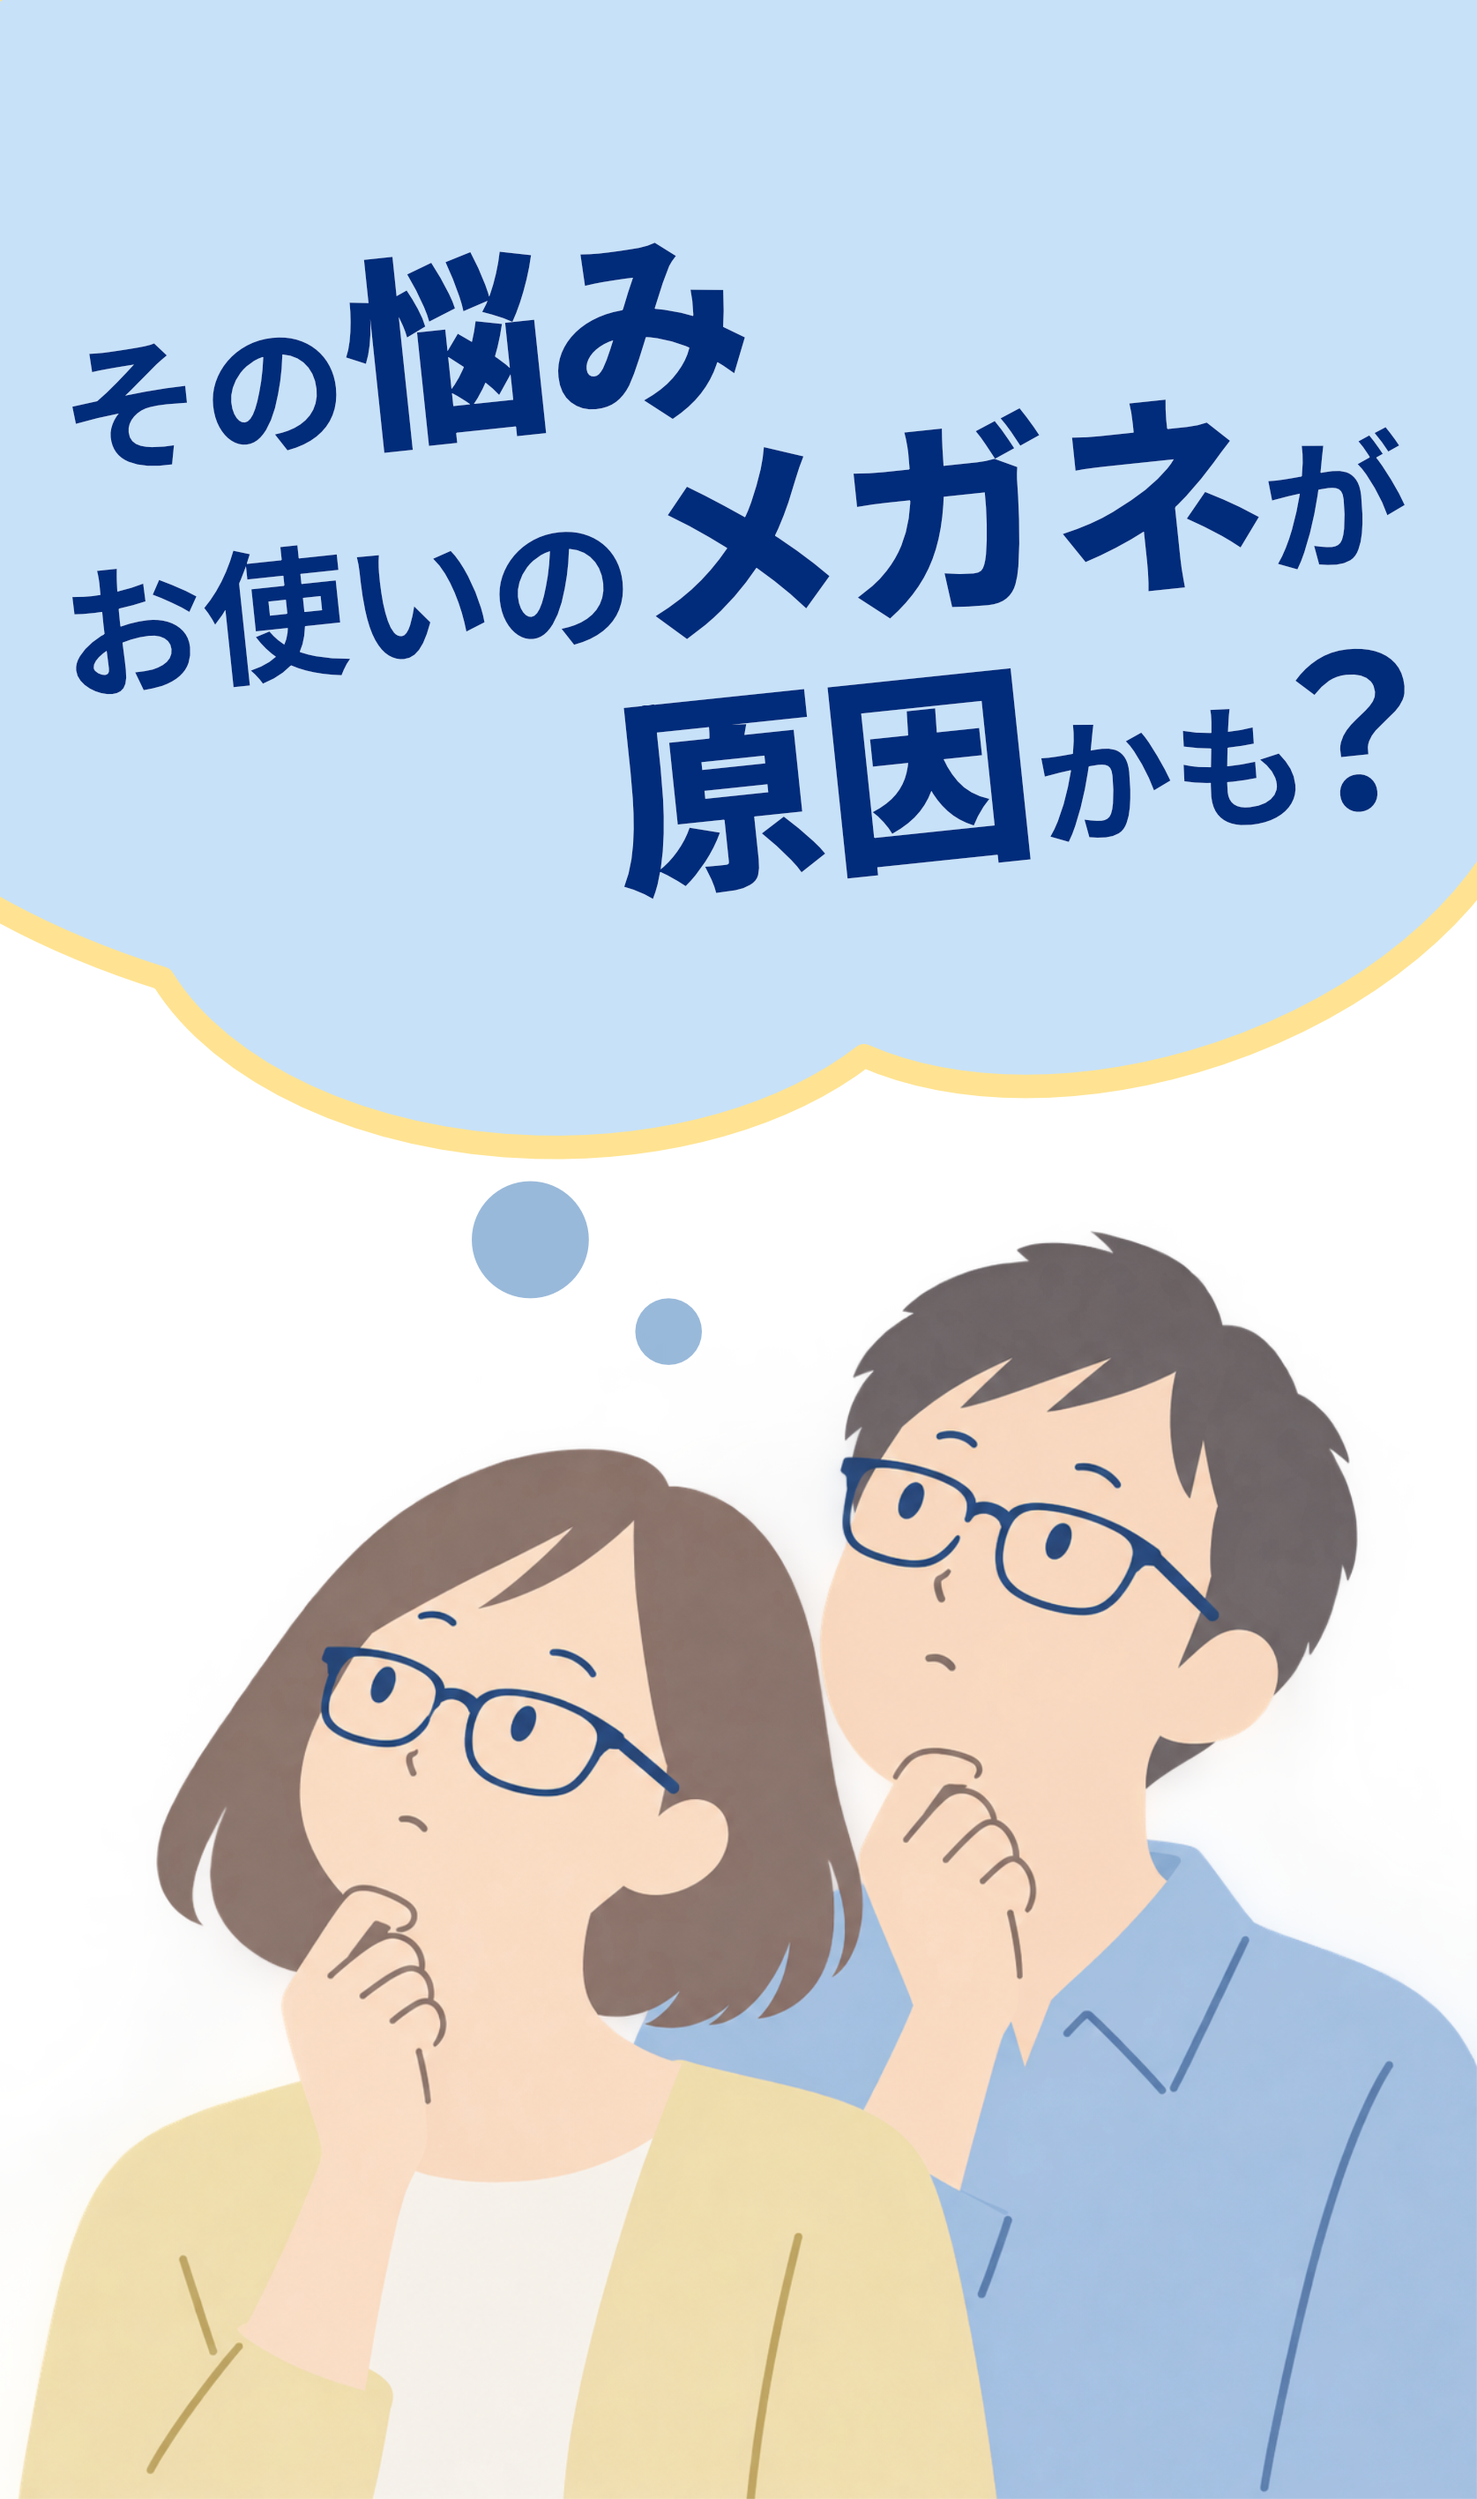
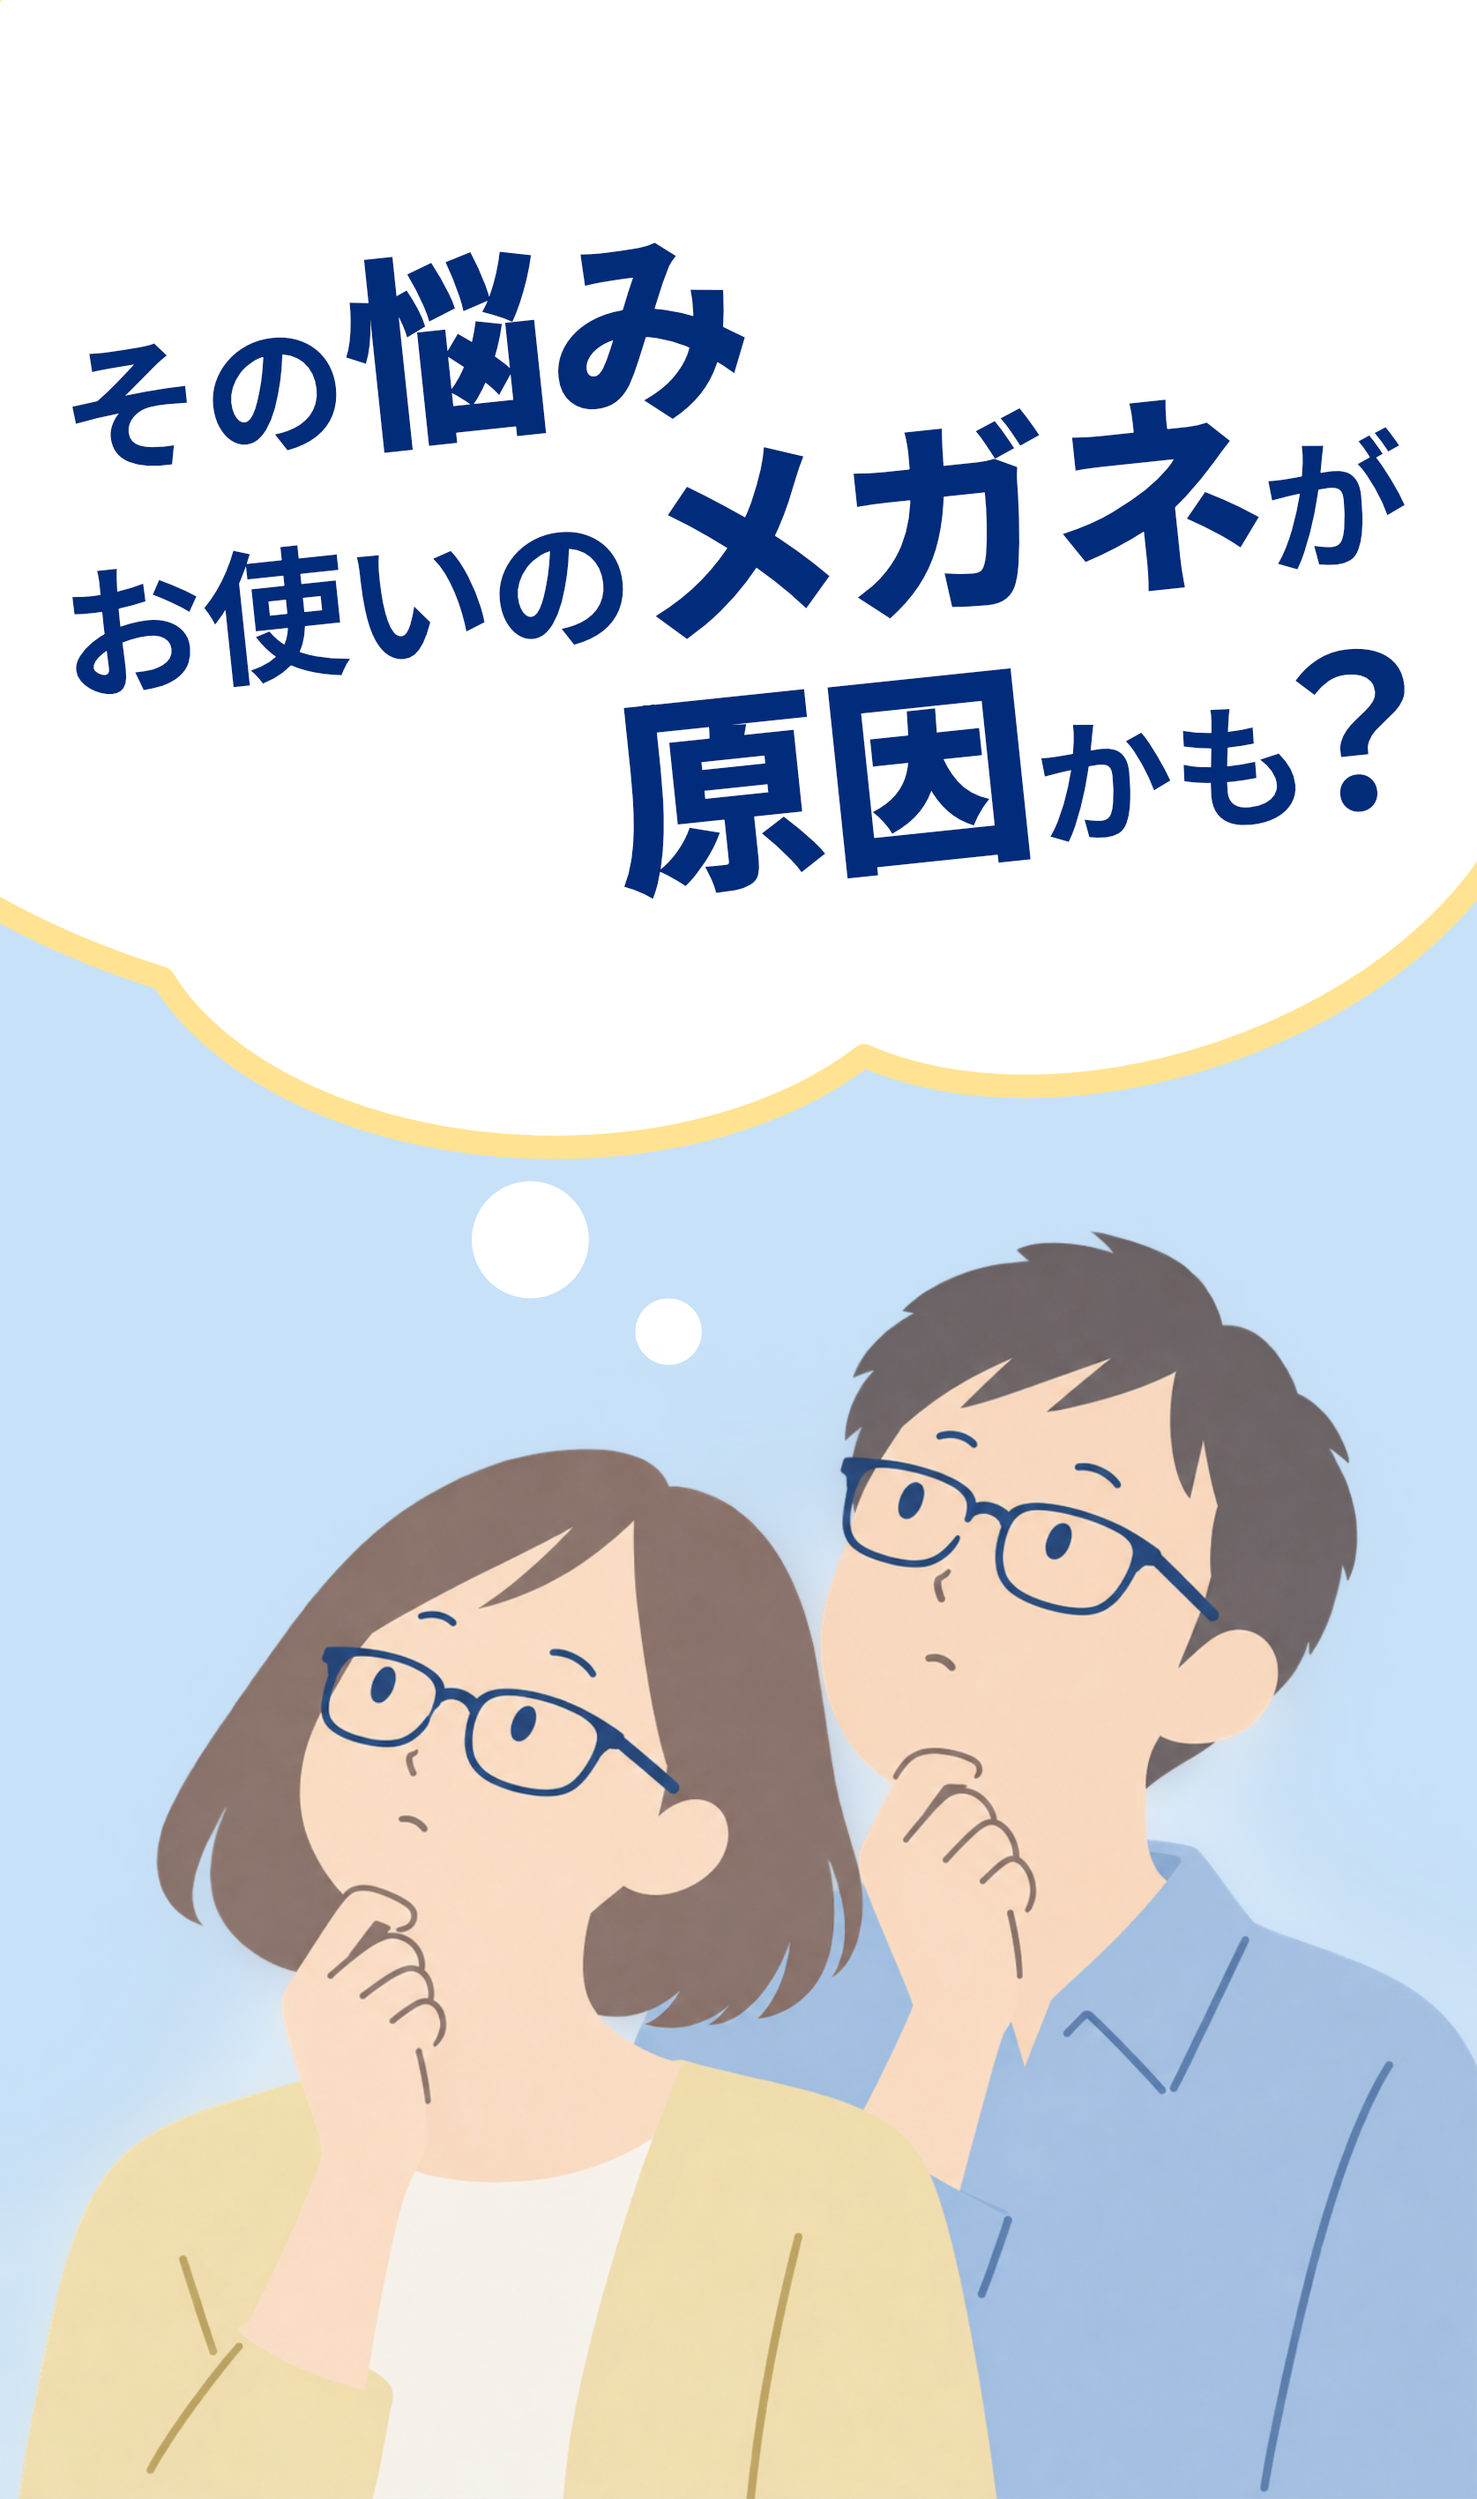
FV画像: もこもこを白・背景を水色にした版に差し替え（バナーに合わせる）

diff --git a/wp-deploy/page-lp-shitadori2026.php b/wp-deploy/page-lp-shitadori2026.php
@@ -1175,7 +1175,7 @@ $lp_assets = get_stylesheet_directory_uri() . '/lp/assets/shitadori2026/img';
 
       <div class="fv-visual">
         <h1 class="sr-only">その悩み、お使いのメガネが原因かも？</h1>
-        <img fetchpriority="high" src="<?php echo $lp_assets; ?>/fv-composite.webp?v=cf9e8fba" width="1675" height="2834" alt="メガネの不調に悩む男女のイラスト">
+        <img fetchpriority="high" src="<?php echo $lp_assets; ?>/fv-composite.webp?v=8309b588" width="1675" height="2834" alt="メガネの不調に悩む男女のイラスト">
         <div class="fv-wave" aria-hidden="true">
           <svg viewBox="0 0 1440 100" preserveAspectRatio="none">
             <path d="M0,40 C240,90 480,0 720,30 C960,60 1200,10 1440,50 L1440,100 L0,100 Z" fill="#A3C0E0"></path>
